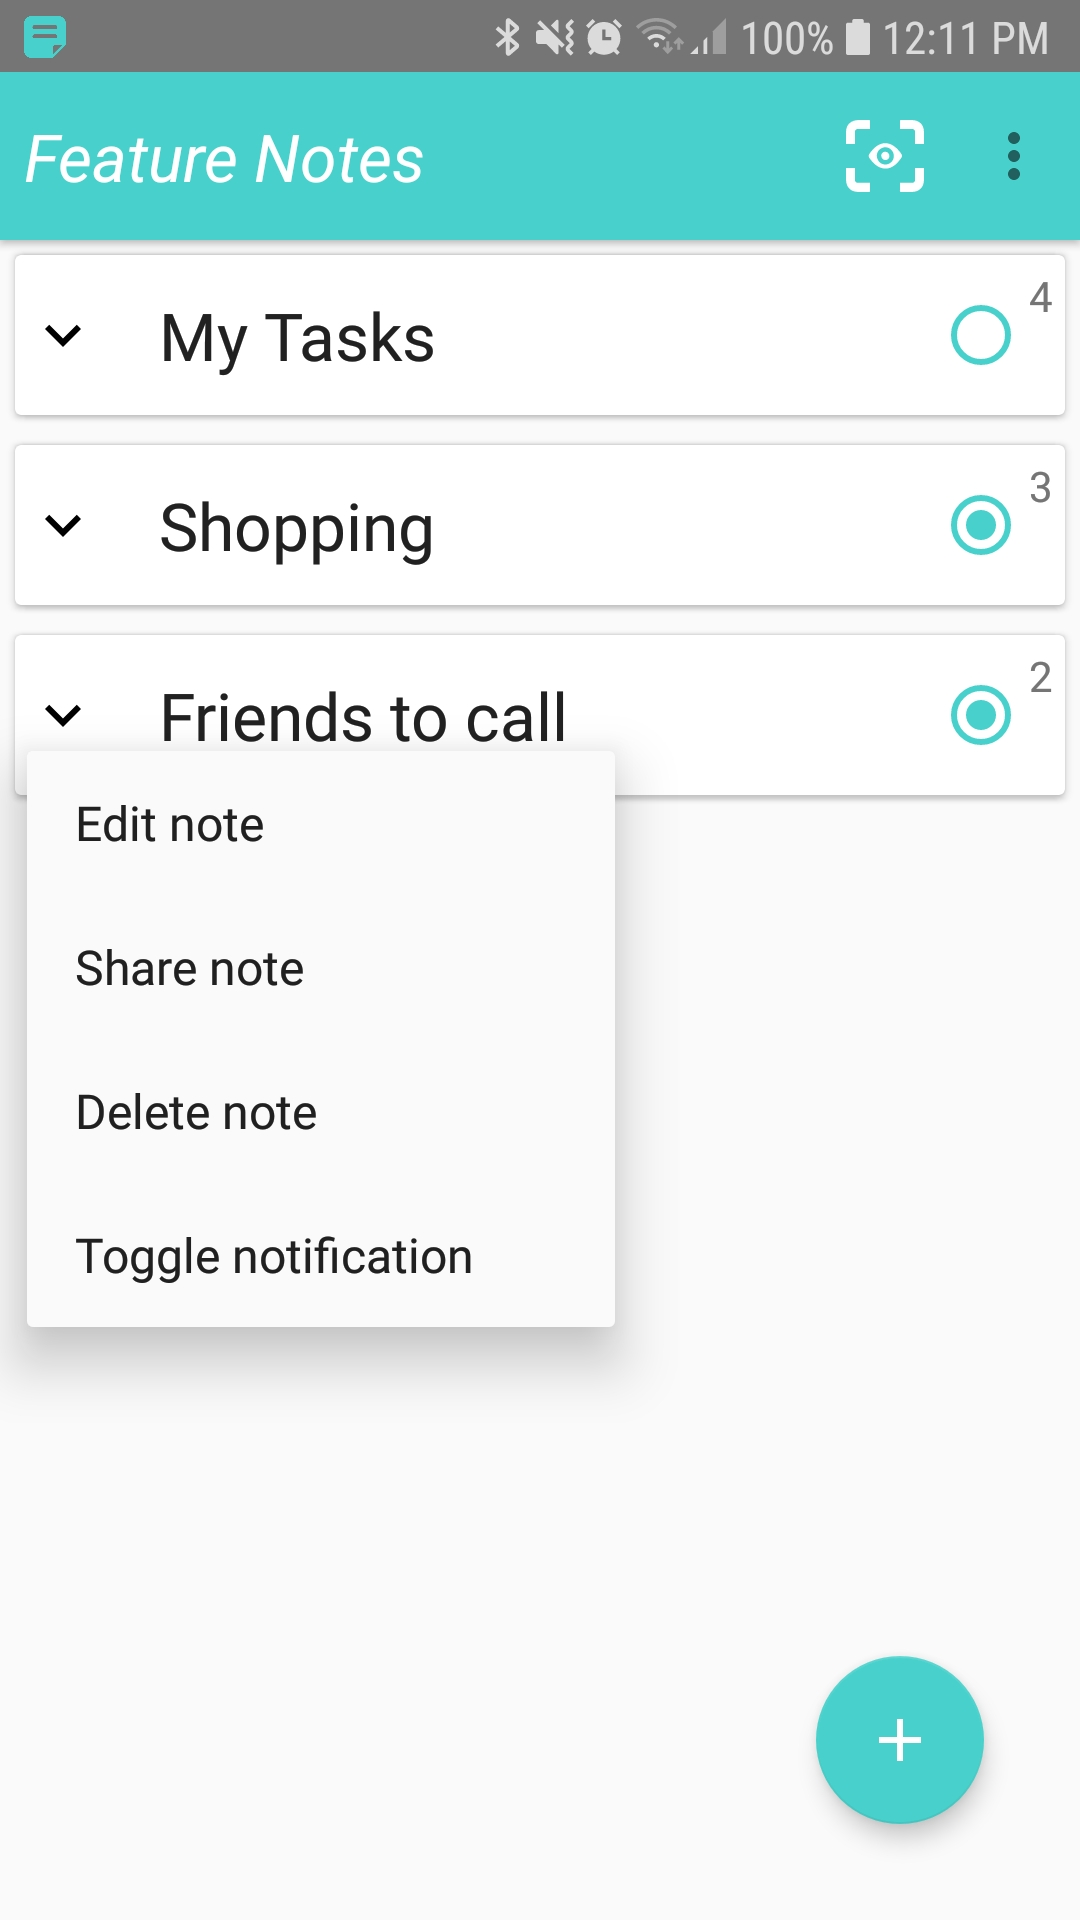
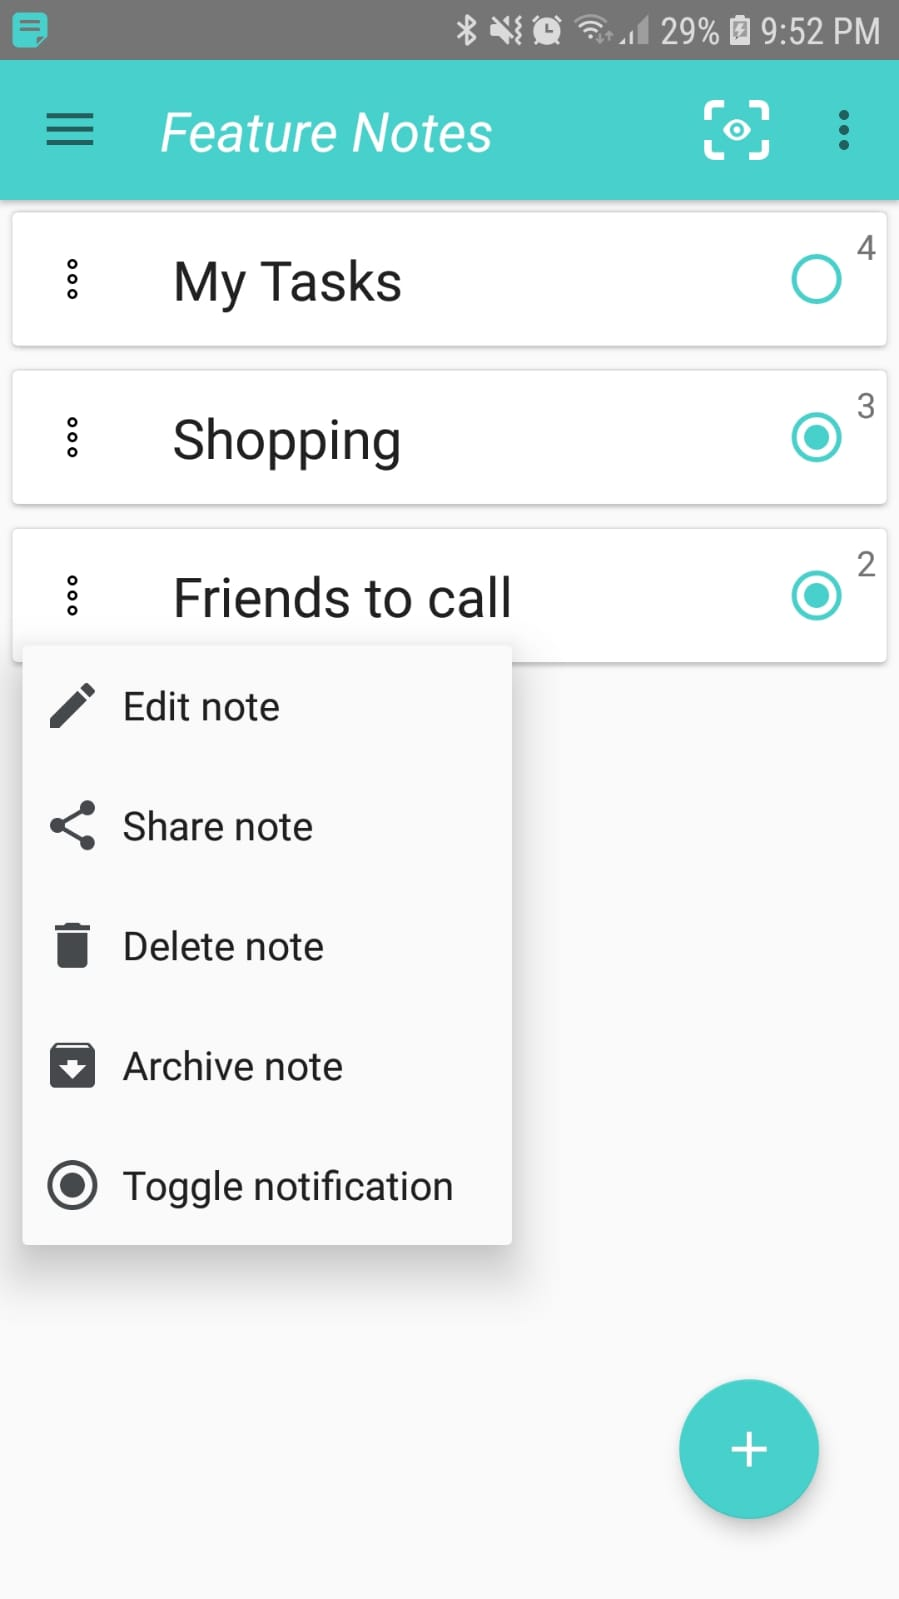
readme + scr shots + nav drawer UI

diff --git a/README.md b/README.md
@@ -6,29 +6,27 @@ How about adding note items while OTHER apps are in the foreground?
 
 These are some useful features you'll find in this app and I can't wait to add more!
 
- This project contains and showcases these concepts:
+ This project is written in Kotlin and showcases these concepts:
 
-- Kotlin language + Kotlin extension functions.
 - Architecture Components: MVVM, Room, Live Data, Observing DB changes.
-- Dependency Injection with Koin: injecting Repository, NotificationManager and ViewModel.
+- Dependency Injection with Koin (Repository, NotificationManager and ViewModel).
 - Using Kotlin Coroutines for necessary asynchronous DB operations.
+- Transitioning between Fragments with Navigation Drawer layout.
 - Parcelable Note data class, so we can pass it between Activities.
 - TypeConverter for storing non-primitive object types in Room Database.
-- Database ViewModel - a single data entry point for all activities.
 - ItemTouchHelper callbacks for gesture detection: drag & drop items.
 - Custom Views (AlertDialog) managing their own UI setup and lifecycle.
-- Setting a priority for each note, influences the order in the main list.
-- Toolbar layouts containing menu items in conjunction with custom menu layouts.
-- Data persistence, so we don’t lose data, even when app task is removed.
-- auto generated primary key, where insert() provides us a unique ID val.
-- Nested ScrollView with auto scroll when adding bottom note items.
-- Text Recognition - extract words and numbers from your photos (Firebase Machine Learning API).
+- Note priority influences the order of notes displayed within list.
+- Generating primary key, where insert() provides us a unique ID val.
+- Auto-scroll to bottom of list when adding note items to the end.
 - Setting notes as Notifications, for quick add, even while watching a video.
-- RESTORE deleted notes and items, through SnackBar action.
-- REVERT CHANGES menu item, during note editing session.
+- Restore deleted/archived notes and items, through quick SnackBar action.
+- Revert changes is possible during note editing session.
 - Share notes easily + quick text copy of individual note items.
-- click to ~~Strike Through note items~~ and mark them as DONE.
+- Settings Activity - simple example using Jetpack Preferences
+- Click to ~~Strike Through note items~~ and mark them as DONE.
 - Espresso Instrumentation tests across multiple activities.
+- Text Recognition - extracting words and numbers from your photos.
 
 <br/>
 
